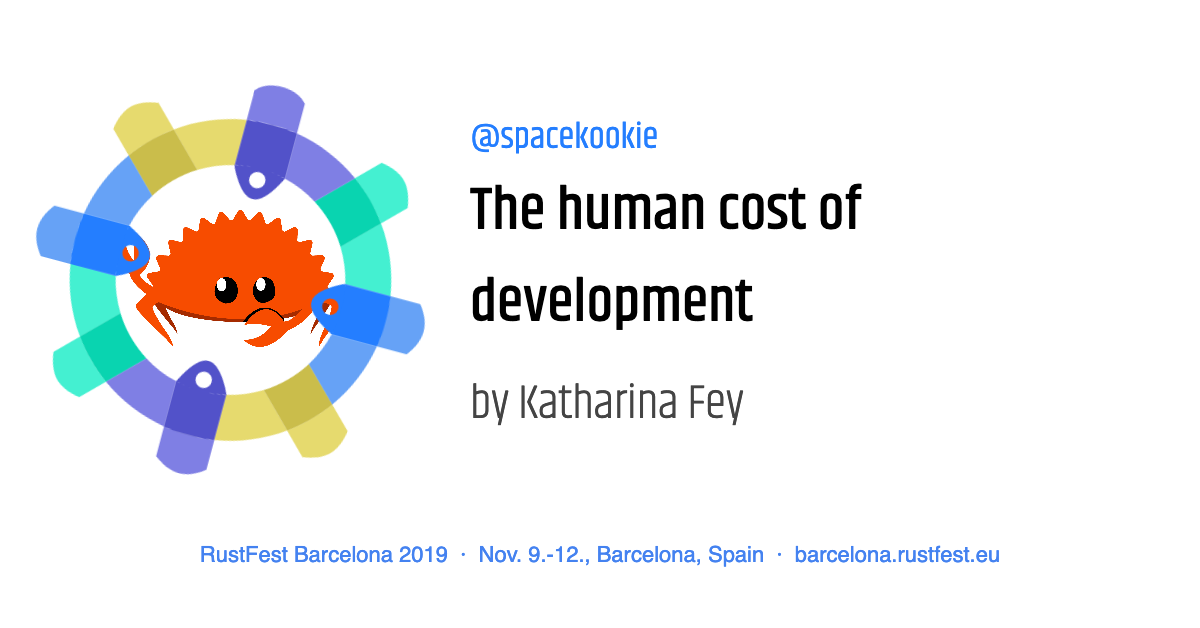
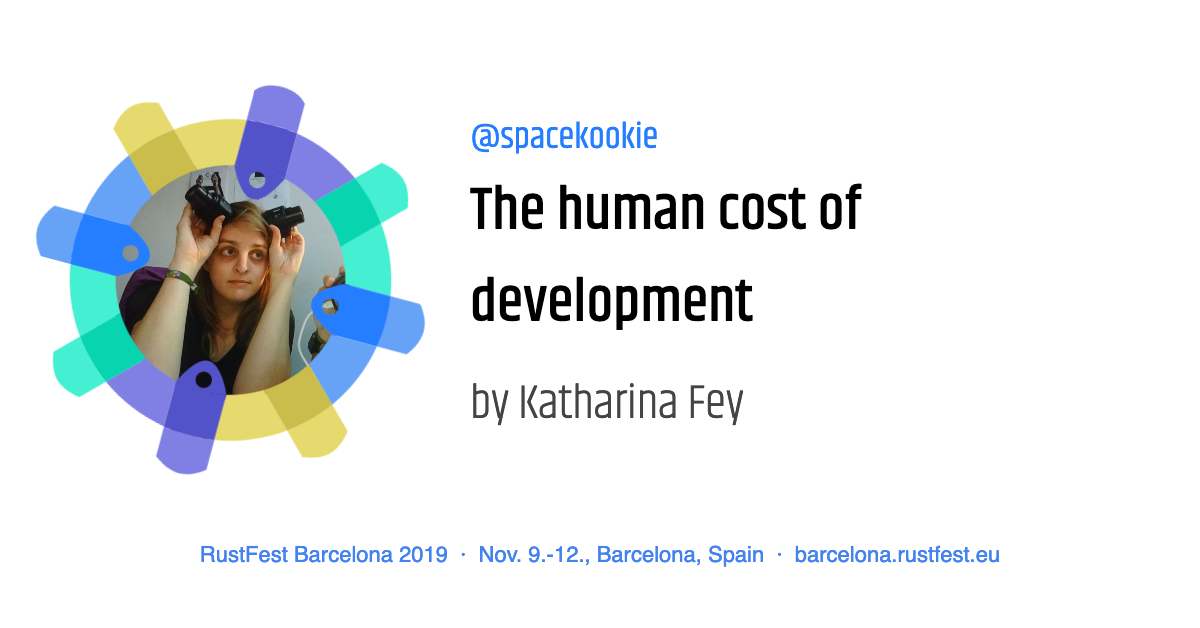
Add spacekookie's picture

Changed region(s): [[0.0925, 0.242, 0.3083, 0.6354]]

diff --git a/_layouts/meta-twitter-card-generator.html b/_layouts/meta-twitter-card-generator.html
@@ -293,7 +293,7 @@
         ["ferris.png", "Amp Up Web Audio Applications with Rust and WebAssembly", "Talk", "by Niklas Reppel"],
         ["pietro-albini.jpg", "Shipping a stable compiler every six weeks", "@pietroalbini", "by Pietro Albini"],
         [["aimee-z.jpg", "brian-anderson.jpg"], "Rust in China", "@Aimee_Z_ & brson", "by Aimee Z & Brian Anderson"],
-        ["ferris.png", "The human cost of development", "@spacekookie", "by Katharina Fey"],
+        ["katharina-fey.jpg", "The human cost of development", "@spacekookie", "by Katharina Fey"],
         ["neville-dipale.jpg", "Powering Crowd-sourcing of Public Transit Delays with Rust", "@nevi-me", "by Neville Dipale"],
         ["luca-palmieri.png", "A Machine Learning introduction to ndarray", "Workshop", "by Luca Palmieri"],
         [["hanno-braun.jpg", "matthias-endler.jpg"], "Introduction to Embedded Development", "Workshop", "by Hanno Braun & Matthias Endler"],
